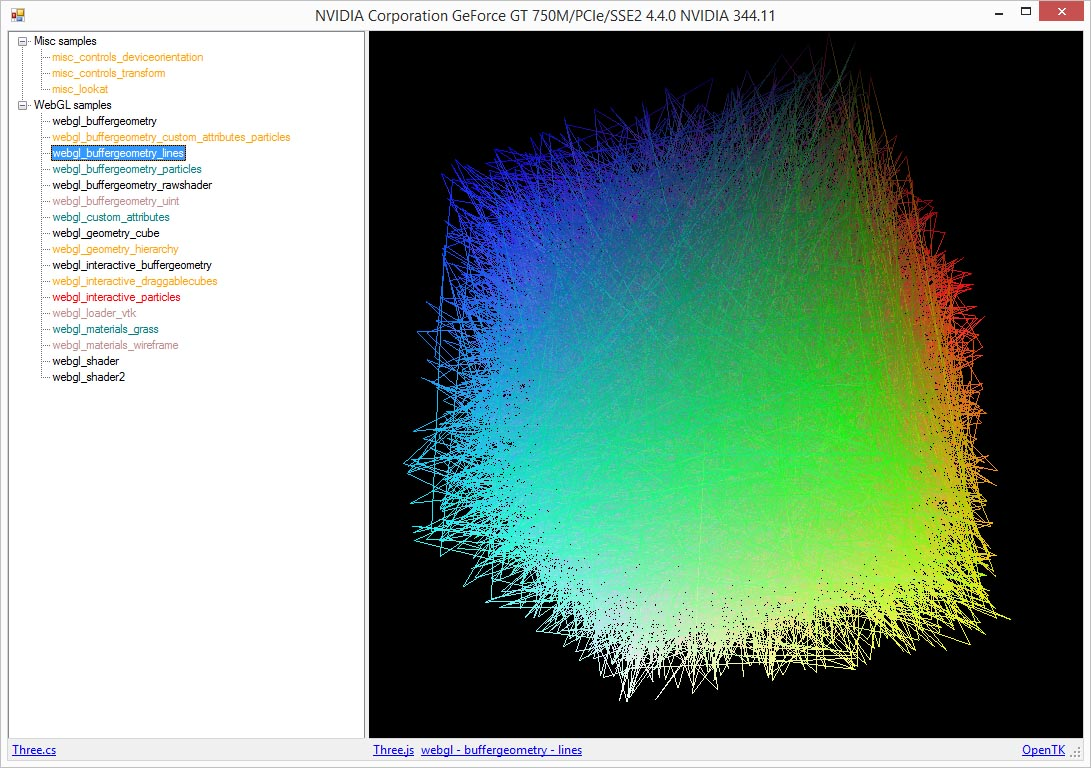
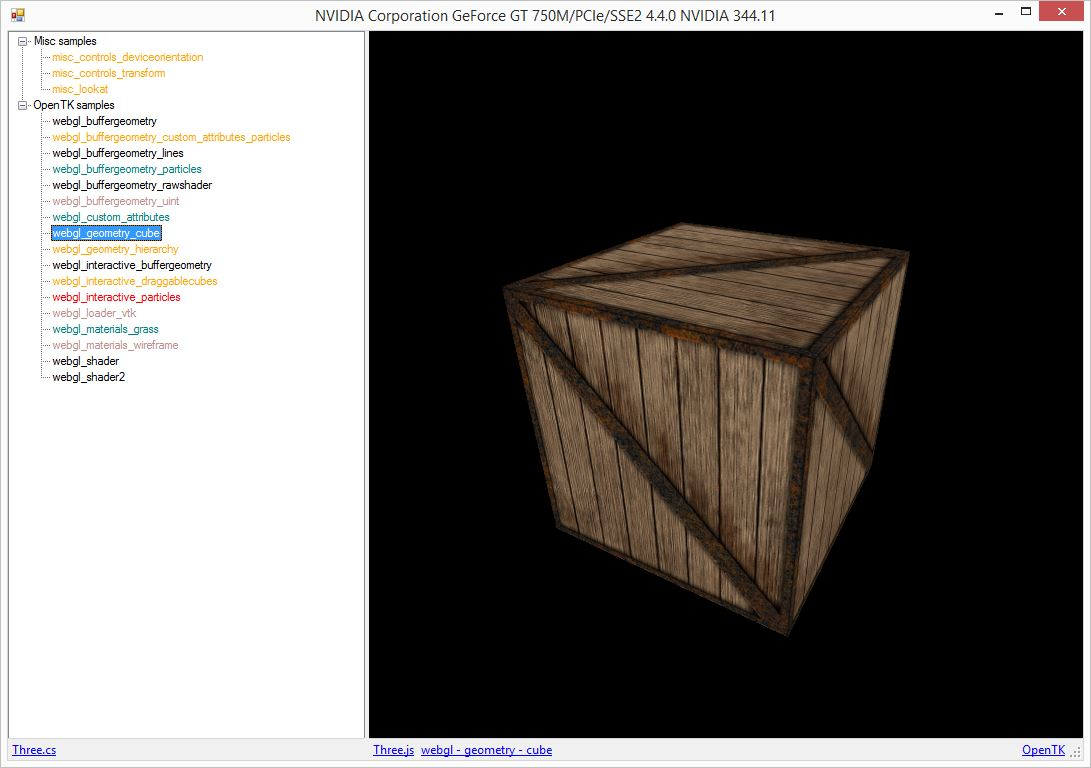
renamed WebGL to OpenTK
reflects the name of the used renderer

diff --git a/Demo/WebGL/webgl_buffergeometry_custom_attributes_particles.cs b/Demo/WebGL/webgl_buffergeometry_custom_attributes_particles.cs
@@ -18,7 +18,7 @@
     using ThreeCs.Renderers.Shaders;
     using ThreeCs.Scenes;
 
-    [Example("webgl_buffergeometry_custom_attributes_particles", ExampleCategory.WebGL, "BufferGeometry", 0.2f)]
+    [Example("webgl_buffergeometry_custom_attributes_particles", ExampleCategory.OpenTK, "BufferGeometry", 0.2f)]
     class webgl_buffergeometry_custom_attributes_particles : Example
     {
         private PerspectiveCamera camera;

diff --git a/Demo/WebGL/webgl_interactive_draggablecubes.cs b/Demo/WebGL/webgl_interactive_draggablecubes.cs
@@ -22,7 +22,7 @@ namespace Demo.WebGL
     using ThreeCs.Renderers;
     using ThreeCs.Scenes;
 
-    [Example("webgl_interactive_draggablecubes", ExampleCategory.WebGL, "Interactive", 0.2f)]
+    [Example("webgl_interactive_draggablecubes", ExampleCategory.OpenTK, "Interactive", 0.2f)]
     class webgl_interactive_draggablecubes : Example
     {
         private PerspectiveCamera camera;

diff --git a/Demo/WebGL/webgl_buffergeometry_particles.cs b/Demo/WebGL/webgl_buffergeometry_particles.cs
@@ -15,7 +15,7 @@
     using ThreeCs.Renderers;
     using ThreeCs.Scenes;
 
-    [Example("webgl_buffergeometry_particles", ExampleCategory.WebGL, "BufferGeometry", 0.6f)]
+    [Example("webgl_buffergeometry_particles", ExampleCategory.OpenTK, "BufferGeometry", 0.6f)]
     class webgl_buffergeometry_particles : Example
     {
         private PerspectiveCamera camera;

diff --git a/Demo/WebGL/webgl_buffergeometry_rawshader.cs b/Demo/WebGL/webgl_buffergeometry_rawshader.cs
@@ -16,7 +16,7 @@
     using ThreeCs.Renderers.Shaders;
     using ThreeCs.Scenes;
 
-    [Example("webgl_buffergeometry_rawshader", ExampleCategory.WebGL, "BufferGeometry")]
+    [Example("webgl_buffergeometry_rawshader", ExampleCategory.OpenTK, "BufferGeometry")]
     class webgl_buffergeometry_rawshader : Example
     {
         private PerspectiveCamera camera;

diff --git a/Demo/WebGL/webgl_interactive_particles.cs b/Demo/WebGL/webgl_interactive_particles.cs
@@ -19,7 +19,7 @@
     using ThreeCs.Renderers.Shaders;
     using ThreeCs.Scenes;
 
-    [Example("webgl_interactive_particles", ExampleCategory.WebGL, "Interactive", 0.1f)]
+    [Example("webgl_interactive_particles", ExampleCategory.OpenTK, "Interactive", 0.1f)]
     class webgl_interactive_particles : Example
     {
         private PerspectiveCamera camera;

diff --git a/Demo/WebGL/webgl_interactive_buffergeometry.cs b/Demo/WebGL/webgl_interactive_buffergeometry.cs
@@ -19,7 +19,7 @@
     using ThreeCs.Renderers;
     using ThreeCs.Scenes;
 
-    [Example("webgl_interactive_buffergeometry", ExampleCategory.WebGL, "Interactive")]
+    [Example("webgl_interactive_buffergeometry", ExampleCategory.OpenTK, "Interactive")]
     class webgl_interactive_buffergeometry : Example
     {
         private PerspectiveCamera camera;

diff --git a/Demo/WebGL/webgl_buffergeometry_uint.cs b/Demo/WebGL/webgl_buffergeometry_uint.cs
@@ -15,7 +15,7 @@
     using ThreeCs.Objects;
     using ThreeCs.Scenes;
 
-    [Example("webgl_buffergeometry_uint", ExampleCategory.WebGL, "BufferGeometry", 0.5f)]
+    [Example("webgl_buffergeometry_uint", ExampleCategory.OpenTK, "BufferGeometry", 0.5f)]
     class webgl_buffergeometry_uint : Example
     {
         private PerspectiveCamera camera;

diff --git a/Demo/WebGL/webgl_materials_grass.cs b/Demo/WebGL/webgl_materials_grass.cs
@@ -19,7 +19,7 @@ namespace Demo.Misc
     using ThreeCs.Scenes;
     using ThreeCs.Textures;
 
-    [Example("webgl_materials_grass", ExampleCategory.WebGL, "materials", 0.6f)]
+    [Example("webgl_materials_grass", ExampleCategory.OpenTK, "materials", 0.6f)]
     class webgl_materials_grass : Example
     {
         private PerspectiveCamera camera;

diff --git a/Demo/WebGL/webgl_buffergeometry_lines.cs b/Demo/WebGL/webgl_buffergeometry_lines.cs
@@ -15,7 +15,7 @@
     using ThreeCs.Renderers;
     using ThreeCs.Scenes;
 
-    [Example("webgl_buffergeometry_lines", ExampleCategory.WebGL, "BufferGeometry")]
+    [Example("webgl_buffergeometry_lines", ExampleCategory.OpenTK, "BufferGeometry")]
     class webgl_buffergeometry_lines : Example
     {
         private PerspectiveCamera camera;

diff --git a/Demo/WebGL/webgl_materials_wireframe.cs b/Demo/WebGL/webgl_materials_wireframe.cs
@@ -17,7 +17,7 @@
     using ThreeCs.Renderers;
     using ThreeCs.Scenes;
 
-    [Example("webgl_materials_wireframe", ExampleCategory.WebGL, "materials", 0.4f)]
+    [Example("webgl_materials_wireframe", ExampleCategory.OpenTK, "materials", 0.4f)]
     class webgl_materials_wireframe : Example
     {
         private PerspectiveCamera camera;

diff --git a/Demo/WebGL/webgl_custom_attributes.cs b/Demo/WebGL/webgl_custom_attributes.cs
@@ -19,7 +19,7 @@
     using ThreeCs.Renderers.Shaders;
     using ThreeCs.Scenes;
 
-    [Example("webgl_custom_attributes", ExampleCategory.WebGL, "custom", 0.6f)]
+    [Example("webgl_custom_attributes", ExampleCategory.OpenTK, "custom", 0.6f)]
     class webgl_custom_attributes : Example
     {
         private PerspectiveCamera camera;

diff --git a/Demo/WebGL/webgl_geometry_hierarchy.cs b/Demo/WebGL/webgl_geometry_hierarchy.cs
@@ -15,7 +15,7 @@
     using ThreeCs.Renderers;
     using ThreeCs.Scenes;
 
-    [Example("webgl_geometry_hierarchy", ExampleCategory.WebGL, "Geometry", 0.2f)]
+    [Example("webgl_geometry_hierarchy", ExampleCategory.OpenTK, "Geometry", 0.2f)]
     class webgl_geometry_hierarchy : Example
     {
         private PerspectiveCamera camera;
